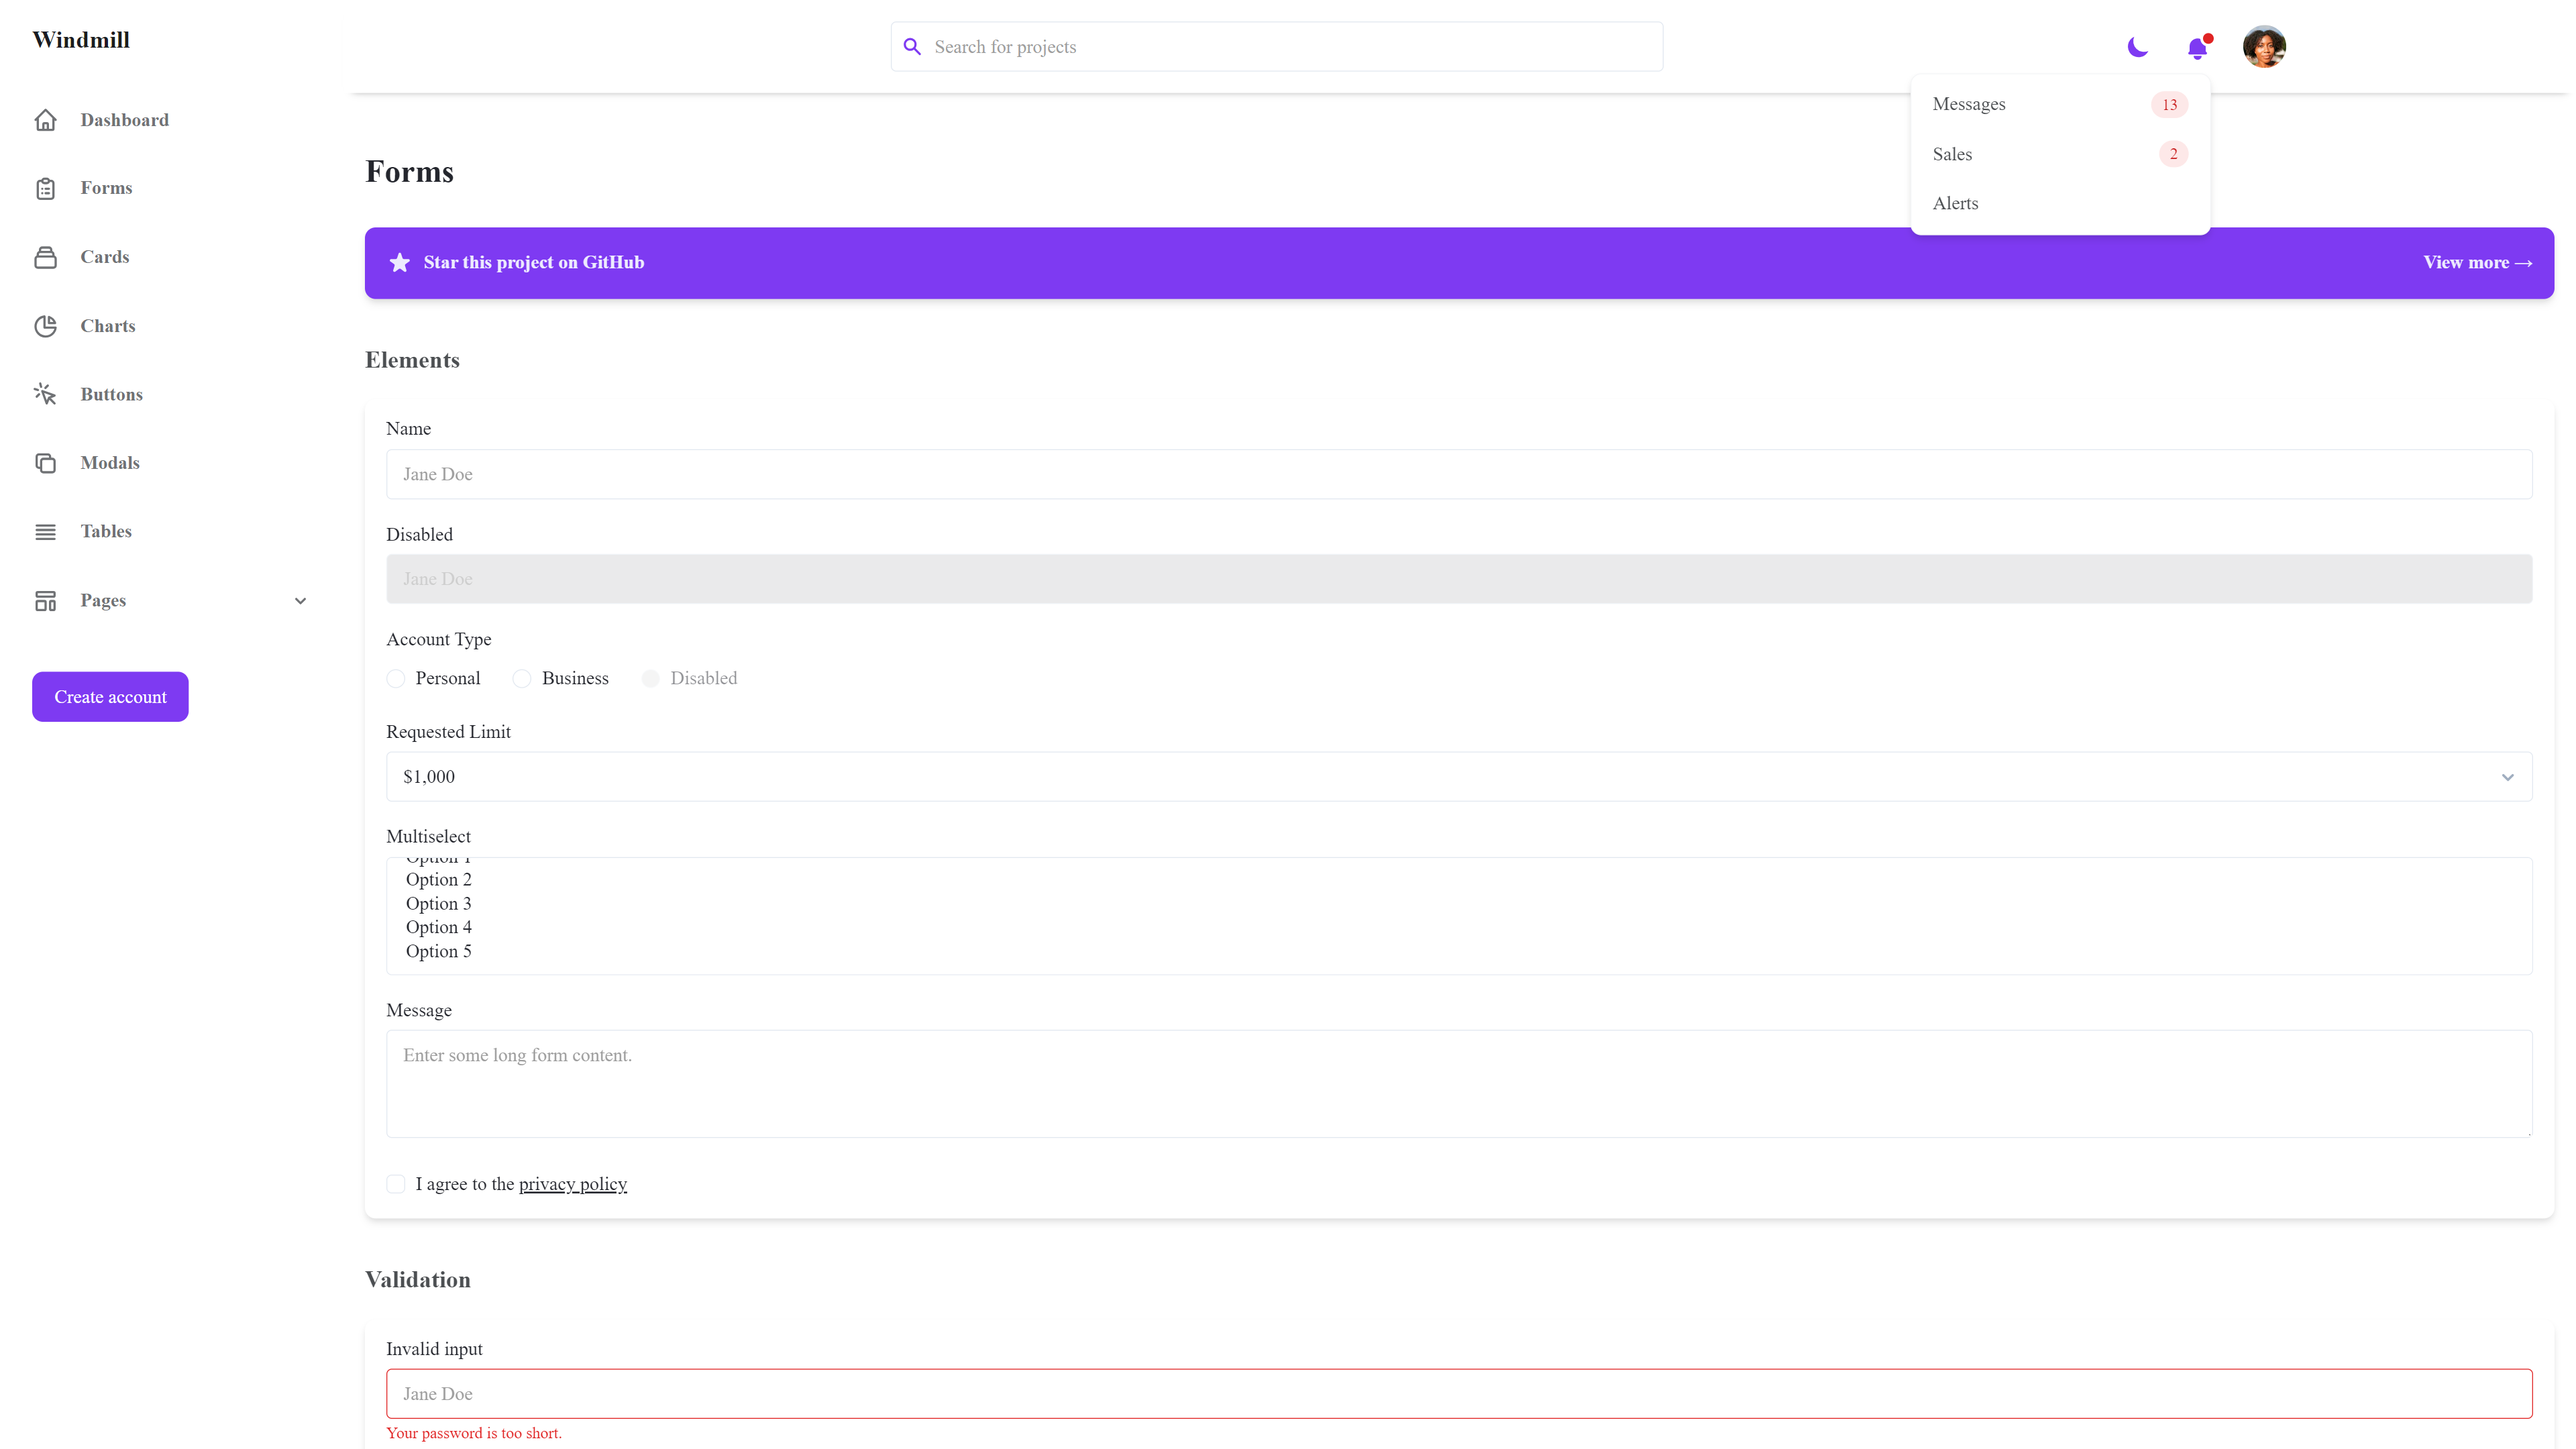
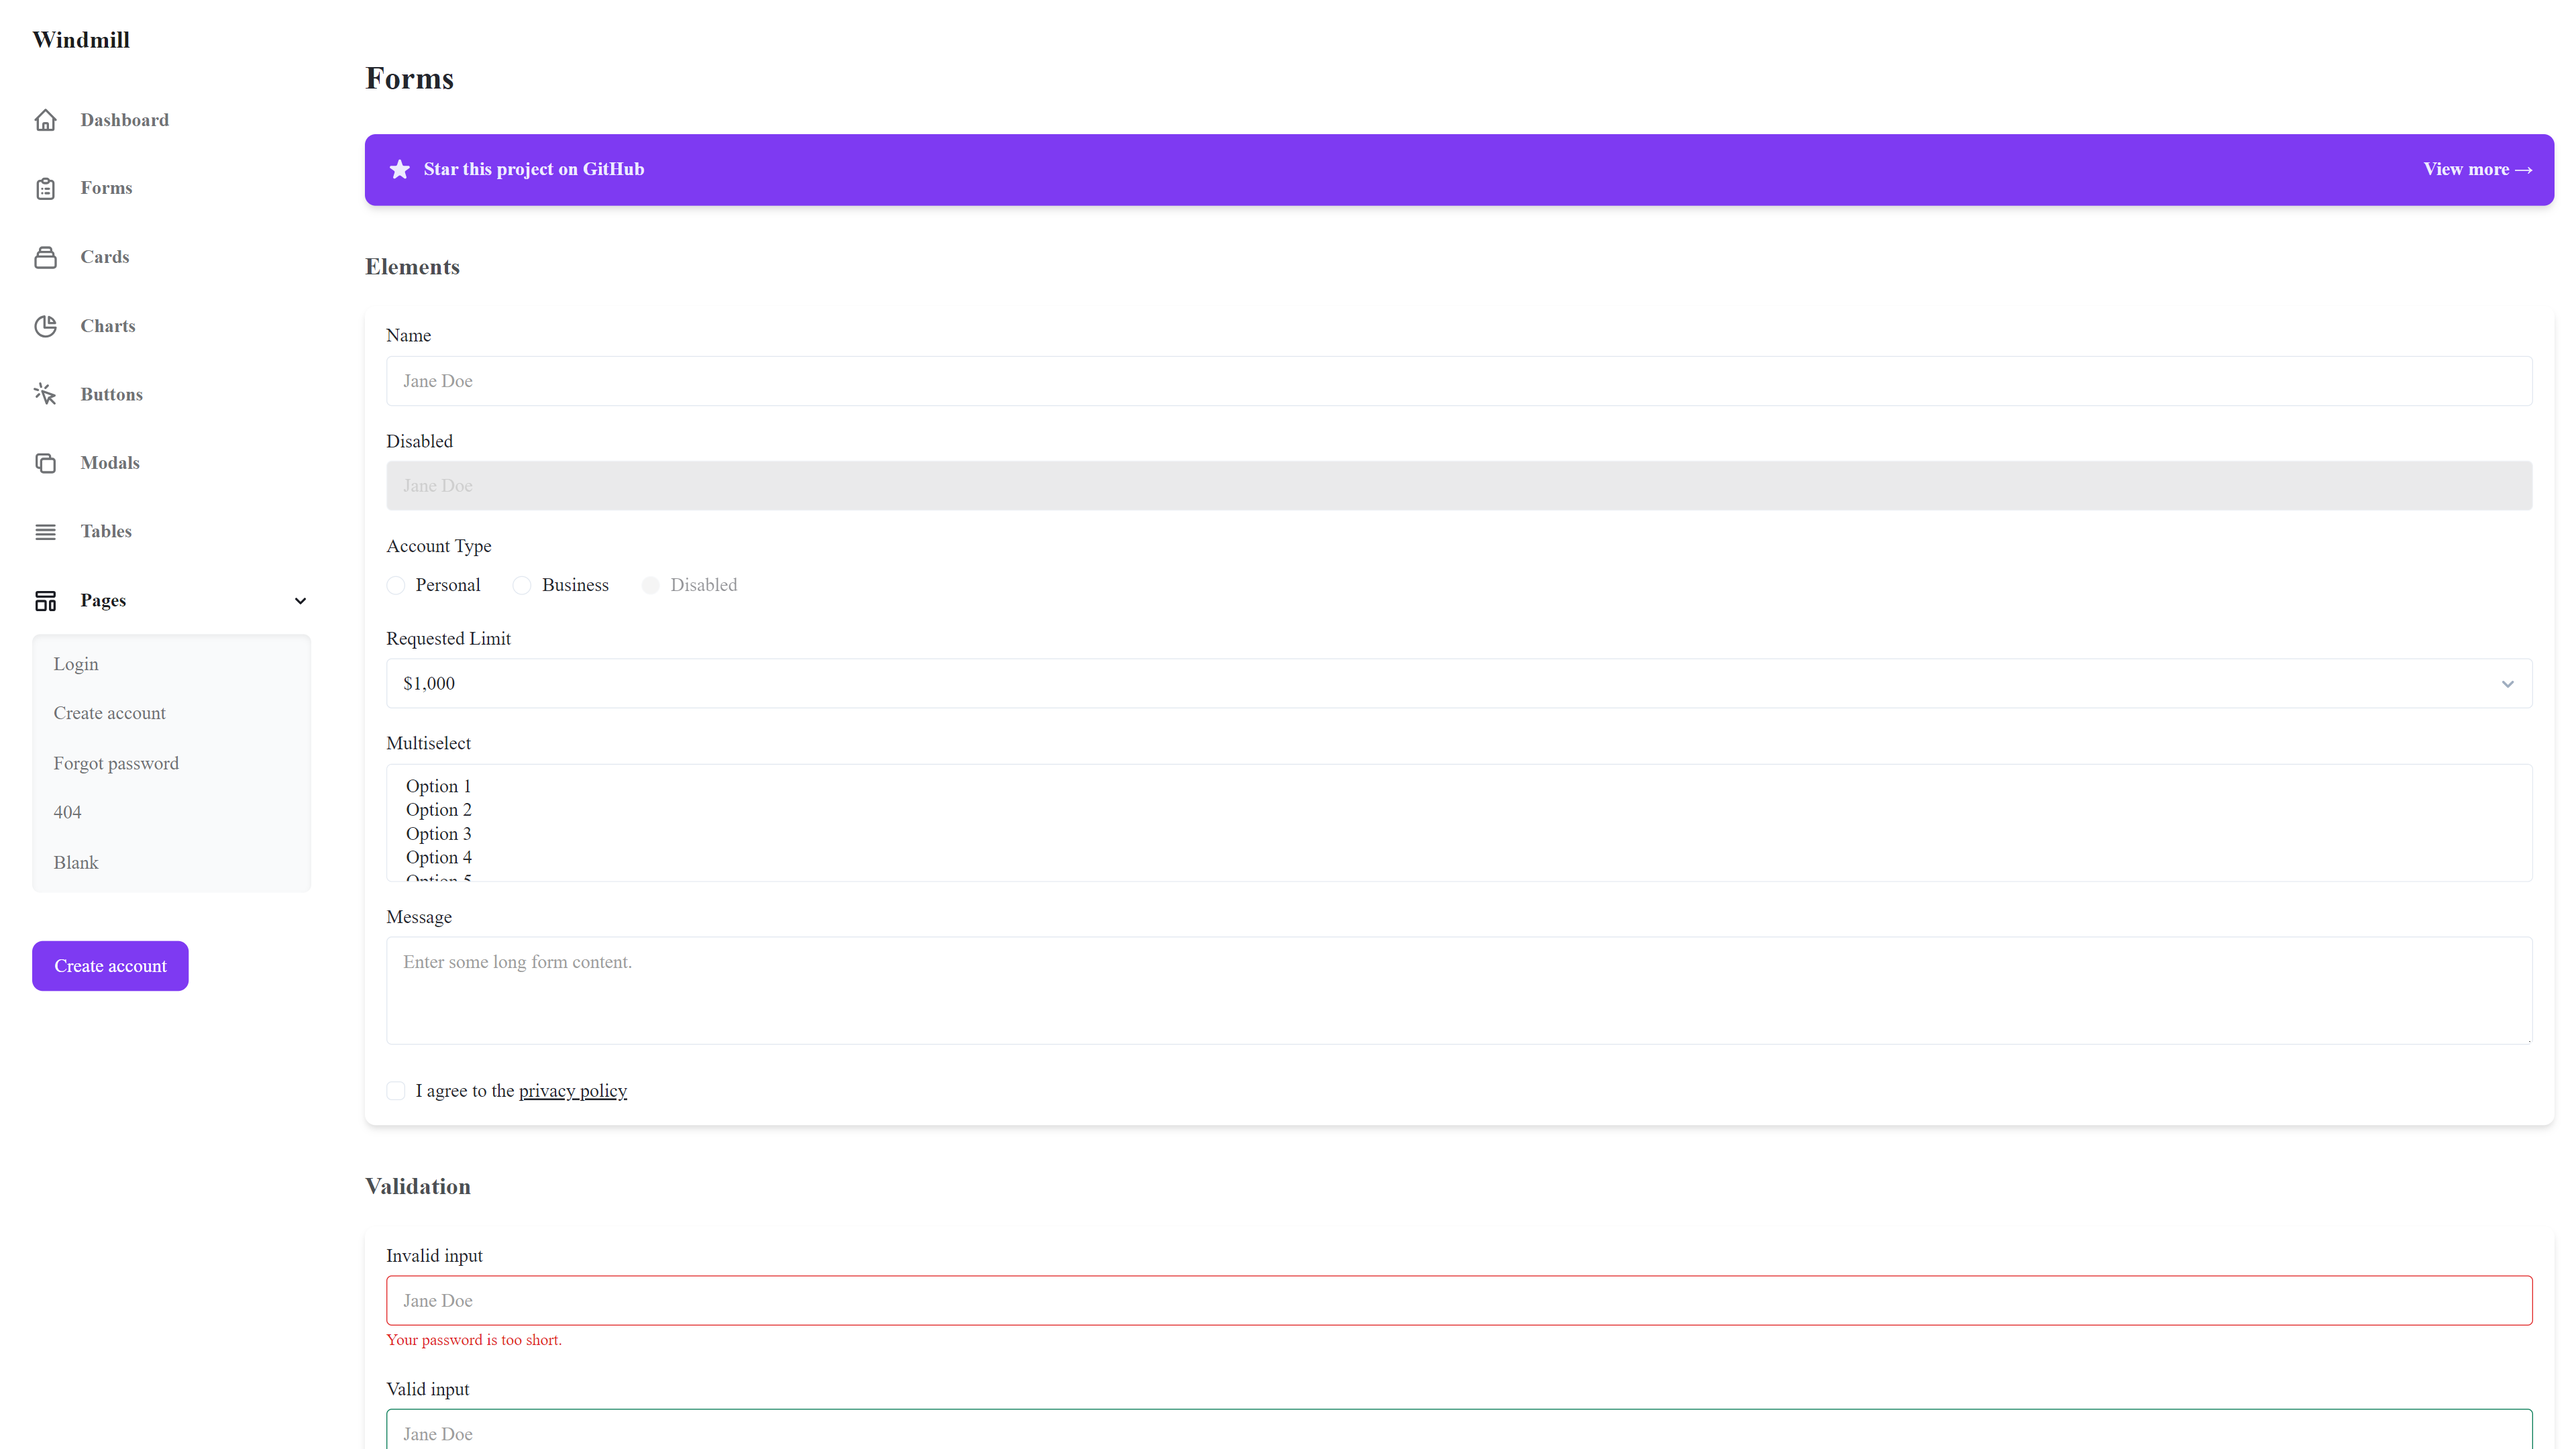
cd_10

diff --git a/src/components/common/layout.js b/src/components/common/layout.js
@@ -1,15 +1,13 @@
 import React from "react";
 import { Windmill } from "@windmill/react-ui";
 import Sidebar from "../sidebar/sidebar";
-import Header from "../header/header";
 
 const Layout = ({ children }) => {
   return (
     <Windmill usePreferences>
       <div className="flex h-screen">
         <Sidebar />
-        <div className="flex flex-col flex-1">
-          <Header />
+        <div className="flex flex-1">
           <div className="flex-1 p-4 dark:bg-gray-800">{children}</div>
         </div>
       </div>
